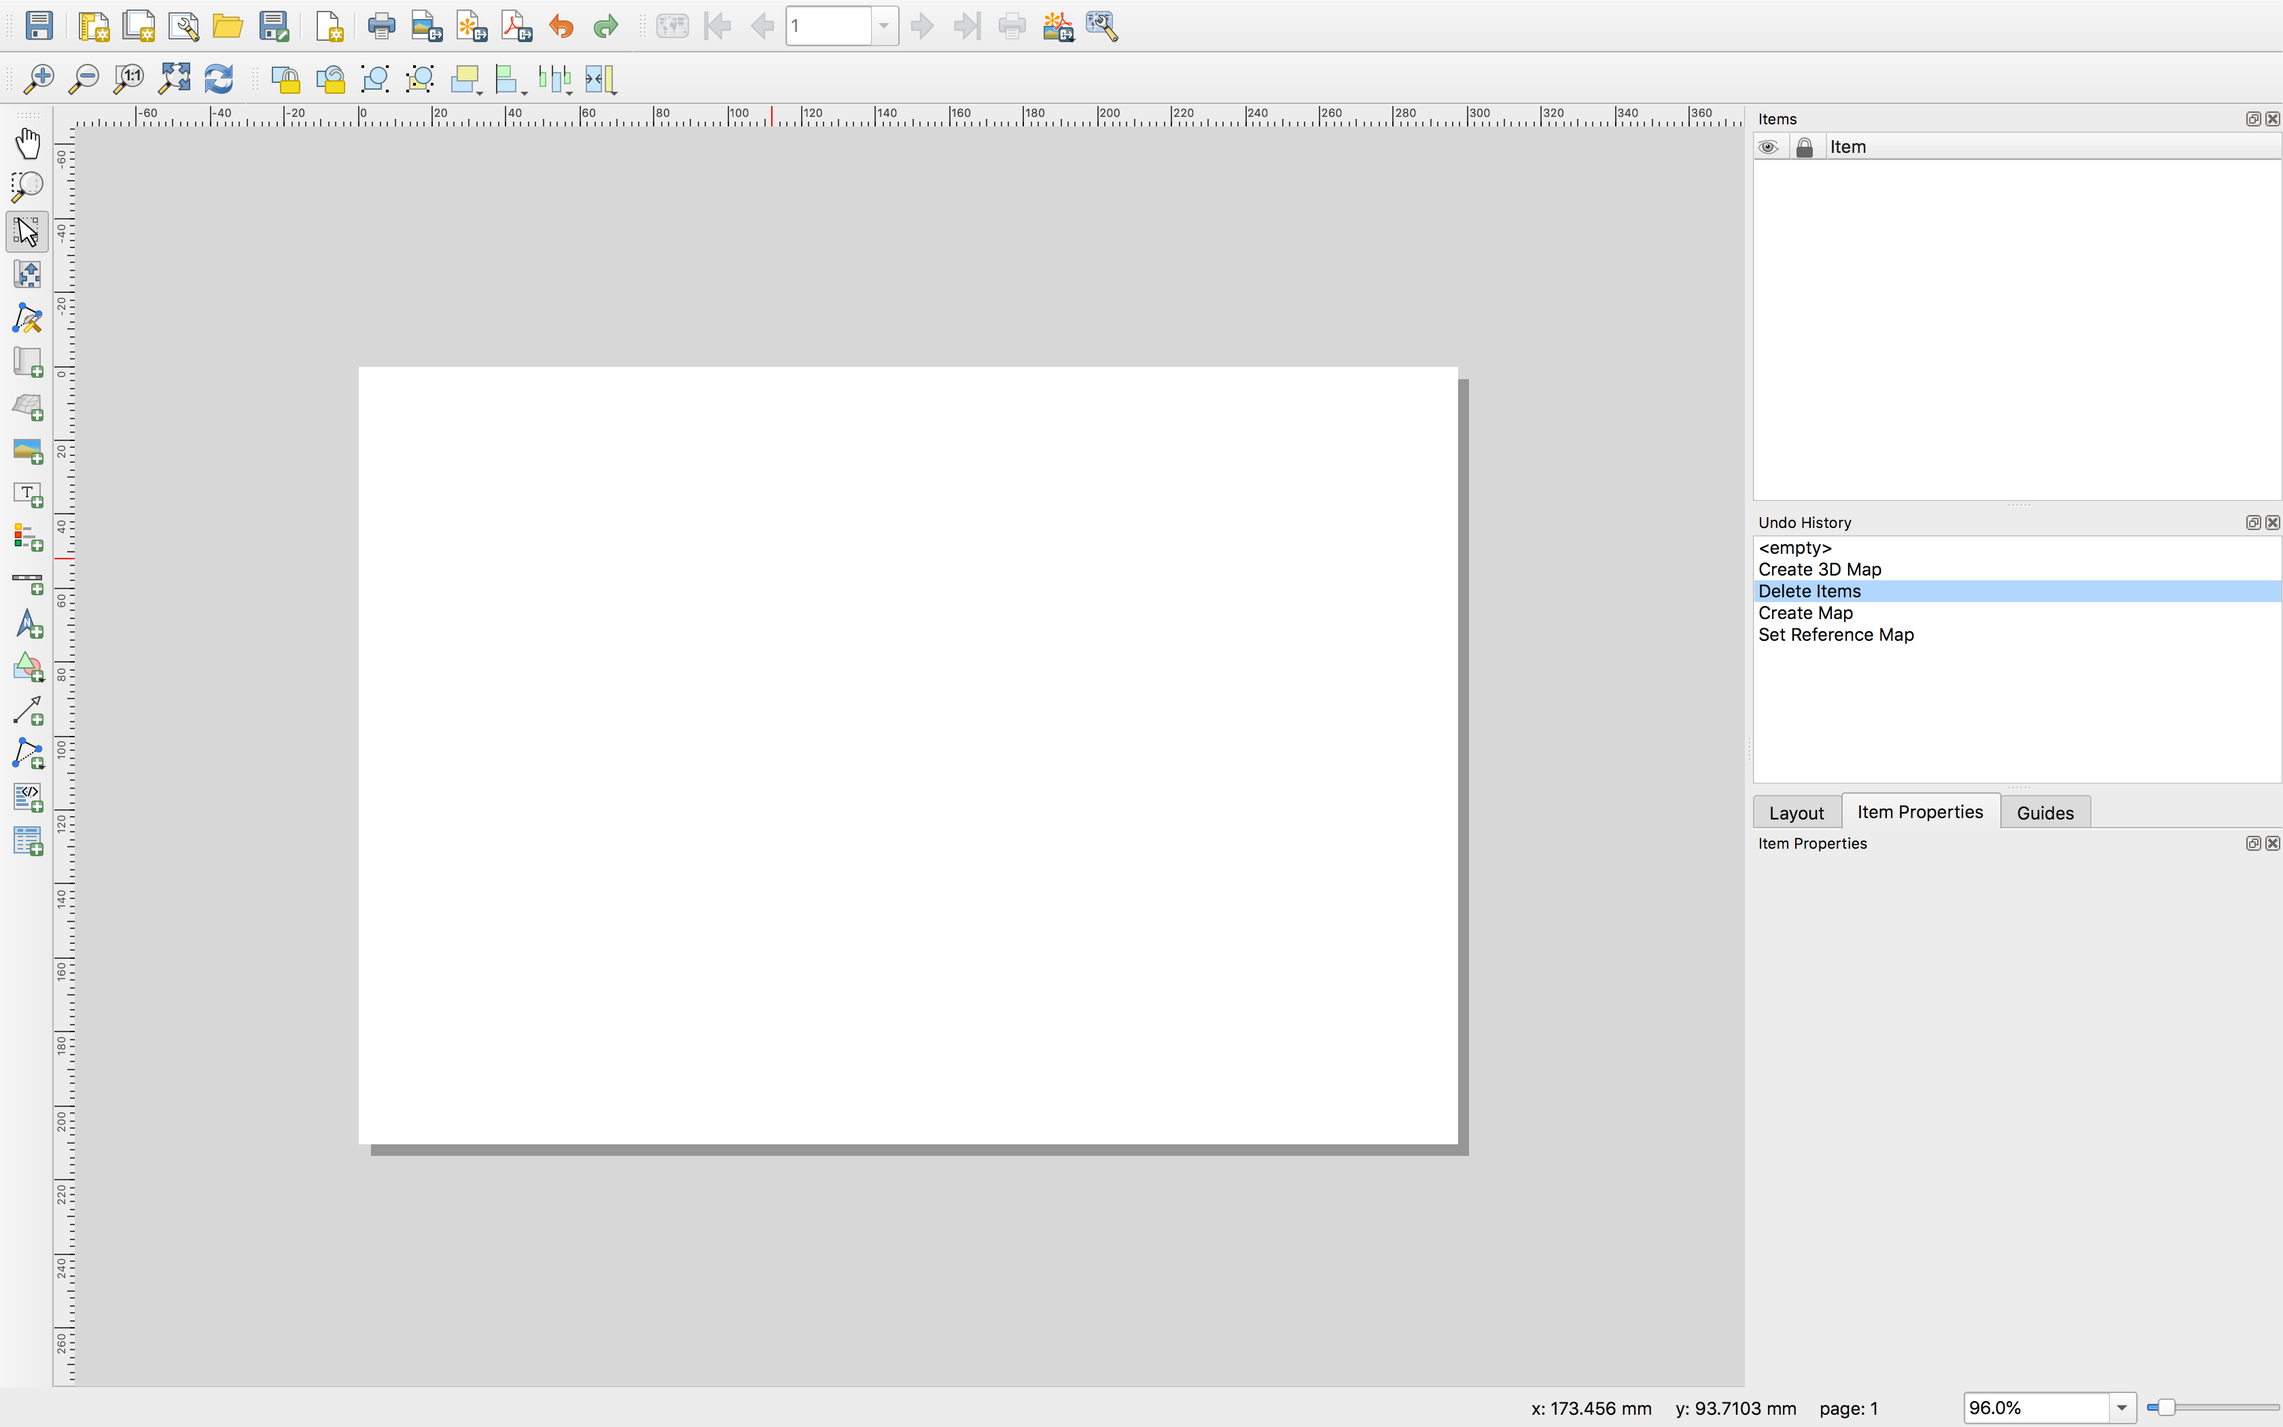
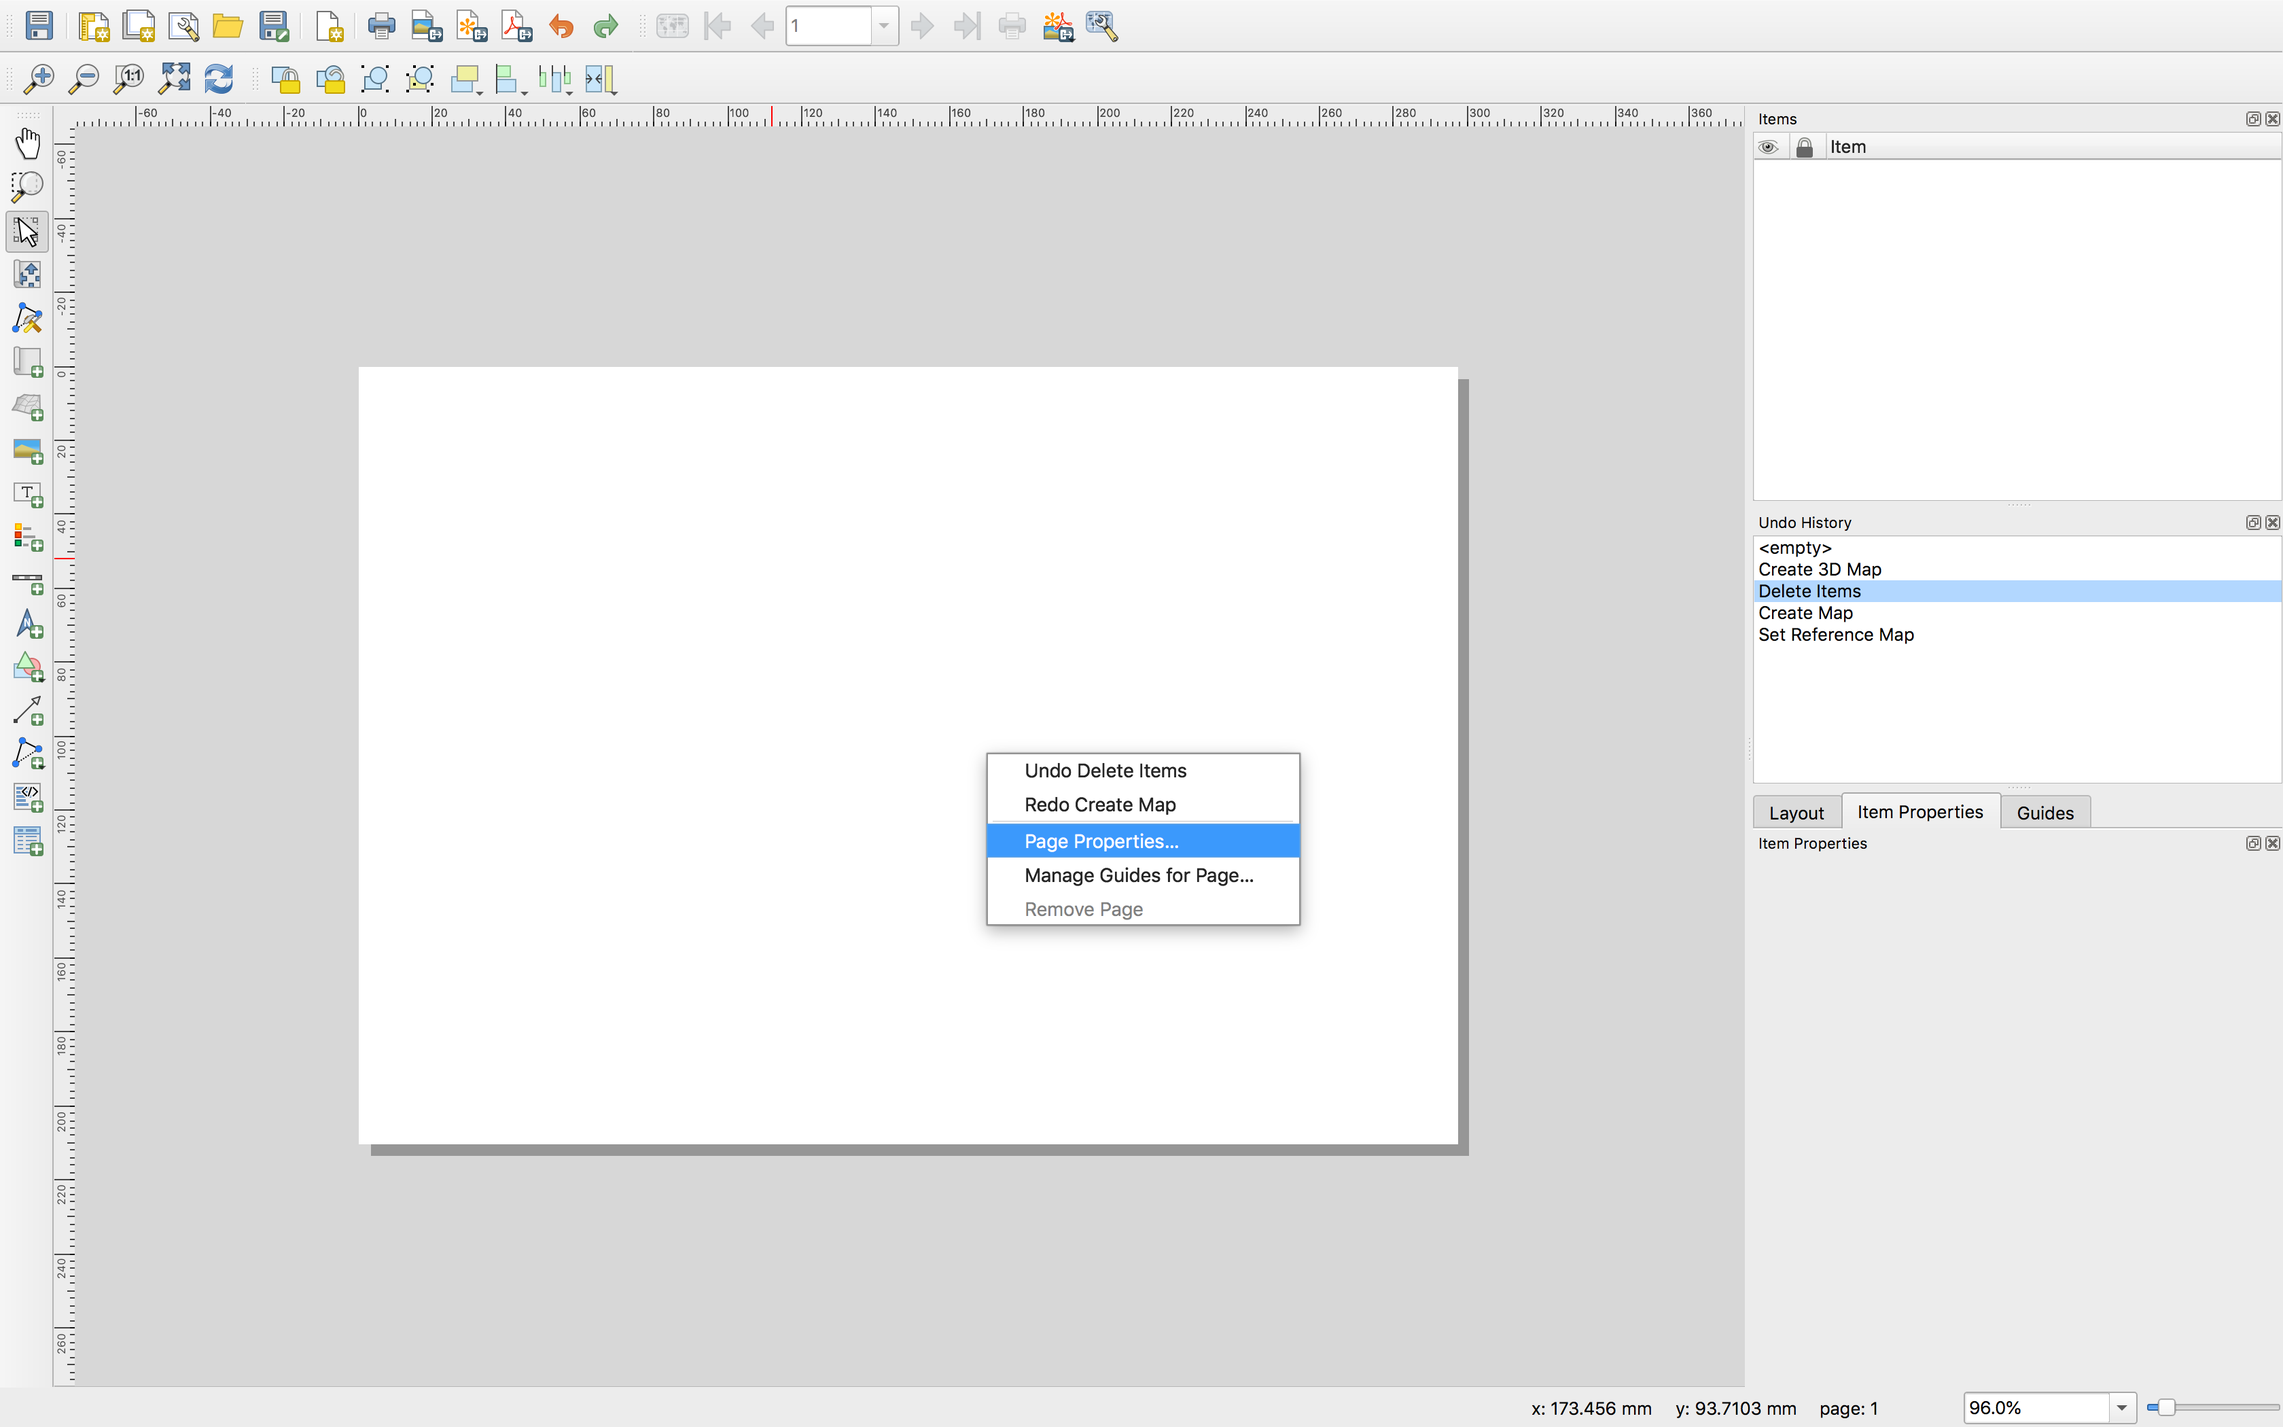
assignment

Changed region(s): [[0.4062, 0.5262, 0.5938, 0.681]]

diff --git a/_projects/assignment01.md b/_projects/assignment01.md
@@ -13,39 +13,31 @@ description:
 # Assignment 01 mapping where things are
 
 Due: September 23, 2020
+This assignment is an introduction to basic functions of working with vector spatial data in QGIS. As shown in the outline of the assignment below it consists of three parts. 
 
-This assignment is an introduction to basic functions of working with vector spatial data in QGIS. Topics covered include:
+In part one you will explore property ownership in Newark through basic spatial and attribute queries. In part two you will become familiar with how to manipulate Coordinate reference systems in QGIS. And in part three you will learn basic elements of map layout in QGIS, and will be asked to design a map in the style of a USGS topographc series map.
 
-- adding data
-- inspecting the attribute table of a feature layer
-- creating points from latitude and longitude coordinates
-- selecting by attributes
-- selecting by location
-- setting the project projection & reprojecting data
-- adding basic map elements in the print composer
+Deliverables required for the assignment are outlined below.
+
+* TOC
+{:toc}
 
 ## Assignment Deliverables
 
 To receive credit and feedback on this project please upload the following to canvas by 9/23.
-One .txt file containing answers to the following questions. Please use the format shown below:
 
-Last name, First Name
-Assignment 01
+1. One map of Newark in the style of a USGS Topographic Map. Thoughtfully examine the mapping conventions used in the USGS maps and design a replica of one with your own graphic point of view. Maps must include basic contextual elements (legend, scale, north arrow, data citation) but may be playful or experimental in their graphic approach. Students are encouraged to pick one element from the USGS map and explore/expand on it. Pay attention to line weights, hierarchy of information, and the aesthetics. Students will share their maps at the start of class on 9/23.
 
-How many parcels list an owner address from outside Newark?  
-Your answer
+2. One .txt file containing answers to the following questions. Please use the format shown below:
+    1. How many parcels list an owner address from outside Newark?  
+    Your answer
+    2. How many parcels in Newark's West Ward list an owner address from outside Newark?  
+    Your answer
+    3. How many parcels in Newark's North Ward list an owner address from outside Newark?  
+    Your answer
+    4. How many properties marked as vacant in the 2017 vacancy survey are located on parcels where the owner's address is outside Newark?  
+    Your answer
 
-How many parcels in Newark's West Ward list an owner address from outside Newark?  
-Your answer
-
-How many parcels in Newark's North Ward list an owner address from outside Newark?  
-Your answer
-
-How many properties marked as vacant in the 2017 vacancy survey are located on parcels where the owner's address is outside Newark?  
-Your answer
-
-One map of Newark in the style of a USGS Topographic Map. For this map please consider
-[XXXXXXXXXX]
 File names should follow this naming convention exactly:
 `lastname_firstname_assignment01`
 
@@ -213,56 +205,109 @@ To undo this and return to an appropriate CRS. Using `Project`>`Properties`  the
 
 Remove the 'reprojected' temporary layer
 
-**Note** an alternative way to reproject data is to save a new feature layer and when exporting select a different CRS. For an individual layer select `export` > `save features as` > and choose a different CRS when exporting. 
+**Note** an alternative way to reproject data is to save a new feature layer and when exporting select a different CRS. For an individual layer select `export` > `save features as` > and choose a different CRS when exporting.
 
 ## Part 03: Composing a map
 
-This next section walks you through the basic functions of the print composer in QGIS. For your assignment you will need to turn in a designed map, that copies the style of one of the USGS topographic series maps. Before you begin this section review the example maps from the USGS. Sample maps are saved in the precedents folder on the course GoogleDrive, and also can be downloaded directly for an area you are interested in from the [USGS here](https://ngmdb.usgs.gov/topoview/viewer/#4/40.00/-100.00).
+This next section walks you through the basic functions and features of the print layout QGIS. The print layout in QGIS allows you to design map layouts for presentation or to export into other formats. Moving from the map canvas to the print layout is primarily a shift from an environment where you can perform analysis and constantly change the map scale (zooming in and out etc) to a set of tools for designing a map at a fixed spatial scale and position, depicting a particular set of features.
 
-**Map composition section forthcoming....**
-<!-- 
-20. print composer open
-note relevant portion of the QGIS docs which has an indepth overview of all functionalities is [here]
-21. change page size of print composer 
-22. set scale 1-24000 refers to one map unit is 24000 units on the ground
+For your assignment you will need to turn in a designed map, that imitates the style of one of the USGS topographic series maps. Before you begin this section review the example maps from the USGS. Sample maps are saved in the precedents folder on the course GoogleDrive, and also can be downloaded directly for an area you are interested in from the [USGS here](https://ngmdb.usgs.gov/topoview/viewer/#4/40.00/-100.00).
 
-23. add scale bar
-24. add text scale
-25. add north arrow
-26. add legend
-27. change legend titles
+The next section of the assignment walks you through basic functions and tools to help you accomplish this. However there are many features that will not be covered -- feel free to explore the [QGIS docs](https://docs.qgis.org/3.10/en/docs/user_manual/print_composer/overview_composer.html) for a full list and explanation of the tools and features available.
 
-Add a graticule
-1. using the select move item tool select the map again
-1. item properties 
-2. scroll down to 'grids' section > green + to add a new grid -- name the grid EPSG 3424 (the CRS of the map). 
-3. select modify grid
-4. make these selections: for CRS `EPSG: 3424`; interval `map unit`; x `5000` y `5000`
-5. scroll down to Draw coordinates. select the check box. for Format select `degree, minute` 
-6. leave the grid item properties menu with the blue arrow at the top of the properties menu
-7. create a new grid. name it WGS84. select modify grid make the following selections:
-crs `EPSG: 4326` this is WGS 84 it is a geographic coordinate system. i.e unprojected. 
-interval `map unit`
-x & y as `0.03`
-so that you can distinguish with the other graticule change the color by selecting the Line dropdown menu
-scroll to enable Draw Coordinates. Format as `degree, minute` 
-change the font color to match the color you chose for the lines
-`Grid enabled` toggles visibility for the grid
+Lets begin.
 
-notice difference between the two graticules]
+Click the `New print layout` button in the top tool bar to open a new print layout. In each QGIS project you can have multiple different layouts. Give a name to the layout you are creating.
 
-## Style your map layers
-At this point in the assignment you may either (1) export your map and continue to design it in the software program of your choice (Illustrator is a good option) or (2) use the layer symbology menus for the layers in your map project to modify and design your map. Skip to the appropriate section here based on your choice. 
+### Setting paper size
 
-## A, export map and work in a graphics editing program
-1. adjust the placement of your map within the map window so that has the extents and scale you would like for your final map. 
-2. make note of the extents for your map window (write these down in case you need to reexport a layer later this way your export will be perfectly aligned) 
-3. export your print composer as an SVG
-4. continue to edit and compose in illustrator
+Right click any where on the page that opens, and then select `Page Properties` from the menu that opens.
 
-## B, continue to edit using QGIS 
-1. in your QGIS project edit the layer symbology using the menu within the layer properties panel for each layer
-2. return to the print composer use the refresh view button to view the changes you just made to the map within the print composer -->
+![page properties]
+
+In the item properties panel set the page size as shown below (22"X27" is one of the standard sizes for USGS maps).
+
+### Adding a map to the layout
+
+Use the `add map tool` and then click and drag to create a rectangular map frame. The map visible in the map canvas will appear.
+
+![add map]
+
+Note you can have multiple maps in a single layout. For example you can have a key map depicting the location of your main map in a broader geographic context; or you can have a detail map showing one area at a higher spatial resolution.
+
+### Defining the map scale and extents
+
+The map you are designing in the print layout will have a set spatial scale, and spatial extents. You can set these in the `Item properties` for each map in your layout. The map below is set at a scale of 1:24000, the same as the largest scale USGS Topographic Series maps.
+
+Note: the extents will always be listed in the units of the coordinate reference system set for the map canvas, and will be specified relative to the meridians of that coordinate reference system.
+
+If you plan to use the print layout primarily to export maps to be edited further in a different layout or graphics program then it is good practice to write down the scale and extents exactly so that you can export multiple versions of your map and have and easy time aligning the elements of your map.
+
+![scale extents]
+
+### Adding standard map elements: scale, legend, north arrow
+
+To add a graphic or text scale bar select the `Add scale bar` tool and adjust the options as you see fit. The scale bar is always tied to a specific map in your layout (seen below in the `Item properties` the added scale bar references Map 1) and if you adjust the scale of that map the scale bar will adjust accordingly.
+Graphic:
+![scale bar]
+
+Text:
+![scale bar text]
+
+A north arrow can be added in a similar fashion.
+![north arrow]
+
+As can a legend: 
+
+![legend]
+
+The default legend includes the names of each layer exactly as they appear in the layers panel. These can be manually adjusted. The font and text size for all legend elements can also be adjusted in the `Item properties` menu for the legend. 
+
+![legend adjust]
+
+### Adding a grid
+A grid can help to convey the location of a map within a given coordinate reference system. A map grid displays vertical and horizontal lines at defined intervals of given coordinate reference system. A graticule refers specifically to the display of geographic coordinates (degrees of latitude and longitude). 
+
+A map can have multiple grids and/or a graticule to convey the location of the map across multiple coordinate reference systems. Here we will add a grid for the coordinate reference system of our map (New Jersey's State Plane NAD 1983) as well as a graticule.
+
+Select the map and view its item properties. Scroll to and expand the `Grids` section. Use the green `+` to add a new grid. Name the grid EPSG 3424 (the CRS of the map).
+
+Select modify the grid. And make the following selections: for CRS `EPSG: 3424`; interval `map unit`; x `5000` y `5000`. Scroll down to Draw coordinates. Select the check box. For format select `decimal`. Then leave the grid item properties menu with the blue arrow at the top of the properties menu. \
+
+The map now displays a grid showing the coordinate reference system.
+![grid]
+
+Next create a graticule to overlay on the map. Create a new grid as before. Name it WGS84 (this is a geographic coordinate reference system). Select modify grid make the following selections: CRS `EPSG: 4326`; interval `map unit`; x & y as `0.03`/
+
+So that you can distinguish with the other grid change the color by selecting the `Line` dropdown menu. Scroll to enable Draw Coordinates. Format as `degree, minute`. Change the font color to match the color you chose for the lines
+
+Note: `Grid enabled` at the top of the grid properties menu toggles visibility for the grid.
+![graticule]
+
+Notice difference between the two graticules. Based on our discussion of projections can you interpret these differences?
+
+### Design your map
+
+At this point in the assignment you may either (A) export your map and continue to design it in the software program of your choice (Illustrator is a good option) or (B) use the layer symbology menus for the layers in your map project to modify and design your map. Skip to the appropriate section here based on your choice.
+
+#### A. export map and work in a graphics editing program
+
+Adjust the placement of your map within the map window so that has the extents and scale you would like for your final map.
+
+Make note of the extents for your map window (write these down in case you need to reexport a layer later this way your export will be perfectly aligned)
+
+Export your print composer as an SVG.
+![svg] 
+Continue to edit and design your map in Adobe Illustrator or another graphics editing software.
+
+#### B. continue to edit using QGIS
+
+Return to your QGIS project, and edit the layer symbology using the menu within the layer properties panel for each layer
+
+Return to the print composer use the refresh view button to view the changes you just made to the map within the print composer
+![refresh]
+
+
 
 [new project]: ../assets/images/assignment01/00_start.png
 [add data]: ../assets/images/assignment01/00.png
@@ -289,13 +334,15 @@ At this point in the assignment you may either (1) export your map and continue 
 [reproject]: ../assets/images/assignment01/03_reproject.png
 [reproject project]: ../assets/images/assignment01/05_reproject.png
 [reproject project back]: ../assets/images/assignment01/04_reproject.png
-
-[]: ../assets/images/assignment01/
-[]: ../assets/images/assignment01/
-[]: ../assets/images/assignment01/
-[]: ../assets/images/assignment01/
-[]: ../assets/images/assignment01/
-[]: ../assets/images/assignment01/
-[]: ../assets/images/assignment01/
-[]: ../assets/images/assignment01/
-[]: ../assets/images/assignment01/
+[page properties]: ../assets/images/assignment01/22_print.png
+[add map]: ../assets/images/assignment01/25_print.png
+[scale extents]: ../assets/images/assignment01/27_print.png
+[scale bar]: ../assets/images/assignment01/28_print.png
+[scale bar text]: ../assets/images/assignment01/29_print.png
+[north arrow]: ../assets/images/assignment01/30_print.png
+[legend]: ../assets/images/assignment01/31_print.png
+[legend adjust]: ../assets/images/assignment01/32_print.png
+[grid]: ../assets/images/assignment01/34_print.png
+[graticule]: ../assets/images/assignment01/33_print.png
+[svg]: ../assets/images/assignment01/35_print.png
+[refresh]: ../assets/images/assignment01/36_print.png
